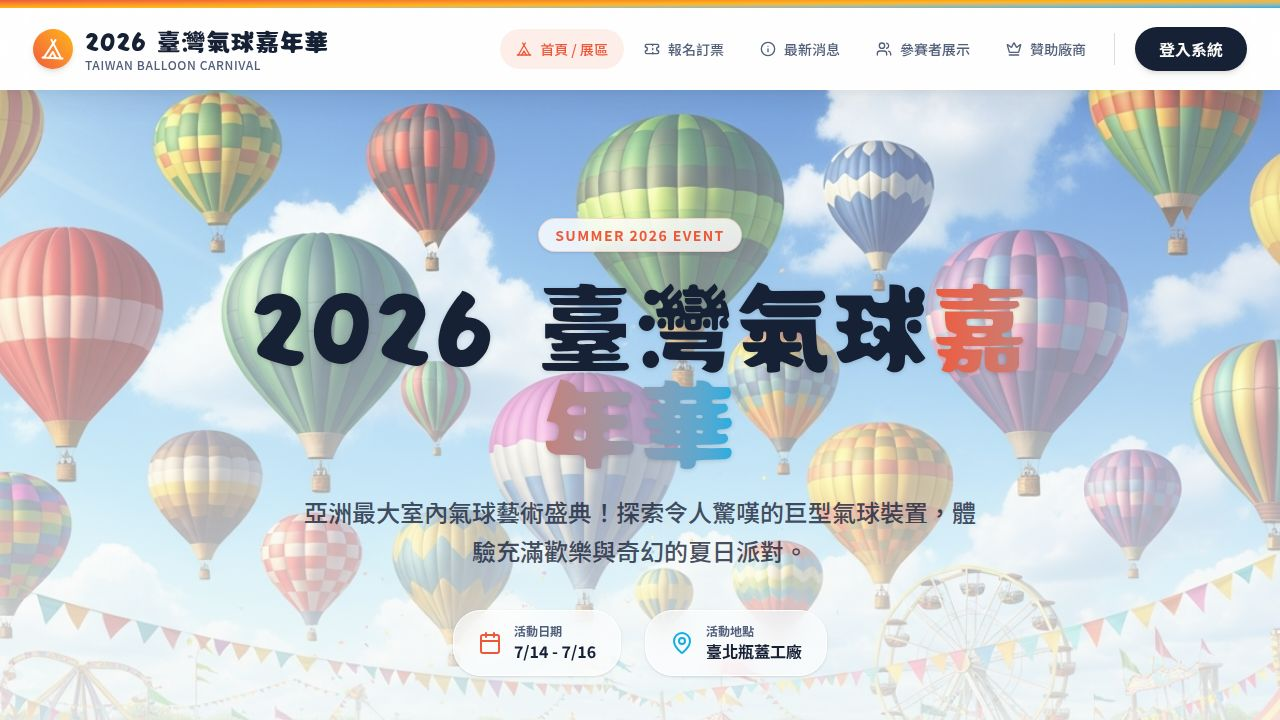
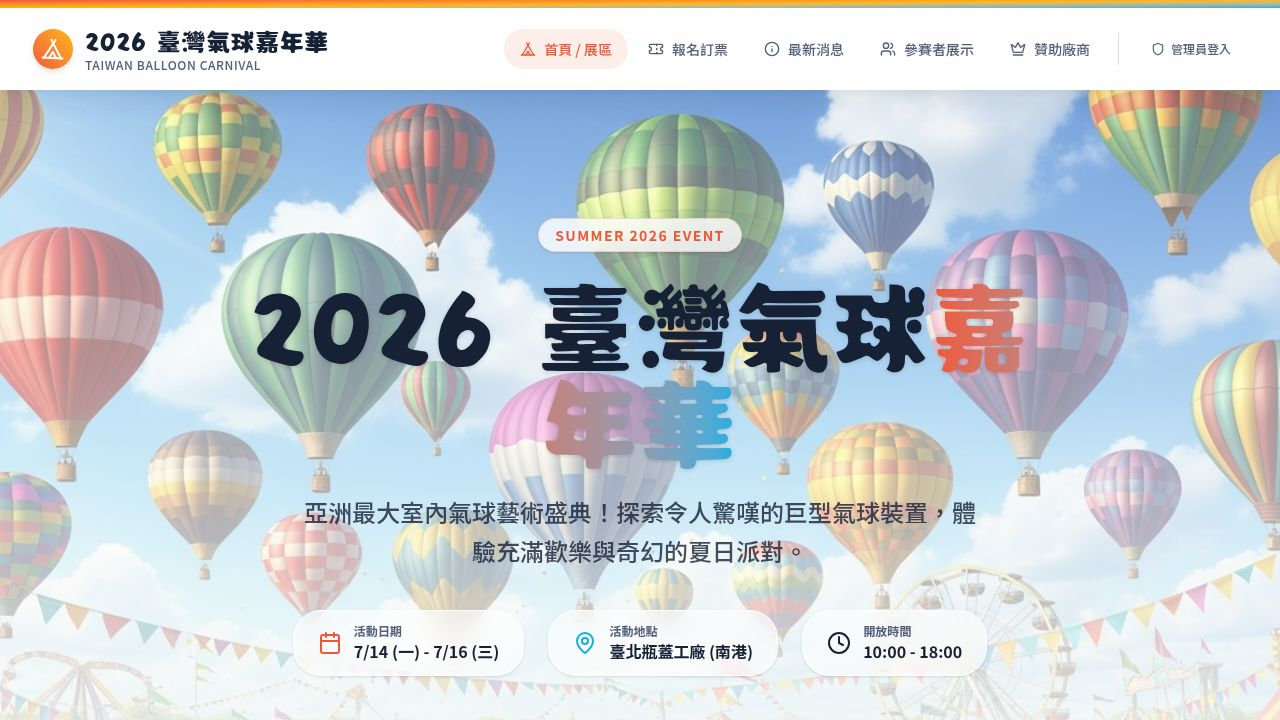
Fix issues preventing successful deployment and publishing
Resolves TypeScript type conflicts, missing environment type declarations, missing composite settings in TypeScript projects, date type mismatches in API routes, and Vite build failures by providing default environment variables.

Replit-Commit-Author: Agent
Replit-Commit-Session-Id: 9969f01a-d792-498c-b759-dbe3edce4d7d
Replit-Commit-Checkpoint-Type: full_checkpoint
Replit-Commit-Event-Id: 4b84aeec-7bba-4ffe-9a06-0fd495e285aa
Replit-Commit-Screenshot-Url: https://storage.googleapis.com/screenshot-production-us-central1/9ae51cab-ce5e-493a-9c99-0b37e6dc3948/9969f01a-d792-498c-b759-dbe3edce4d7d/fG5MdqL
Replit-Helium-Checkpoint-Created: true

diff --git a/lib/api-zod/src/index.ts b/lib/api-zod/src/index.ts
@@ -1,2 +1,24 @@
 export * from "./generated/api";
-export * from "./generated/types";
+export type {
+  AdminExportRegistrationsParams,
+  AdminListRegistrationsParams,
+  AuthorizationSessionHeaderParameter,
+  AuthUser,
+  AuthUserEnvelope,
+  BeginBrowserLoginParams,
+  Contestant,
+  CreateContestantBody,
+  CreateNewsBody,
+  DateAvailability,
+  ErrorEnvelope,
+  Exhibition,
+  HandleBrowserLoginCallbackParams,
+  HealthStatus,
+  LogoutSuccess,
+  MobileTokenExchangeRequest,
+  MobileTokenExchangeSuccess,
+  NewsArticle,
+  Registration,
+  Sponsor,
+  SponsorTier,
+} from "./generated/types";

diff --git a/artifacts/balloon-carnival/vite.config.ts b/artifacts/balloon-carnival/vite.config.ts
@@ -4,27 +4,14 @@ import tailwindcss from "@tailwindcss/vite";
 import path from "path";
 import runtimeErrorOverlay from "@replit/vite-plugin-runtime-error-modal";
 
-const rawPort = process.env.PORT;
-
-if (!rawPort) {
-  throw new Error(
-    "PORT environment variable is required but was not provided.",
-  );
-}
-
+const rawPort = process.env.PORT || "3000";
 const port = Number(rawPort);
 
 if (Number.isNaN(port) || port <= 0) {
   throw new Error(`Invalid PORT value: "${rawPort}"`);
 }
 
-const basePath = process.env.BASE_PATH;
-
-if (!basePath) {
-  throw new Error(
-    "BASE_PATH environment variable is required but was not provided.",
-  );
-}
+const basePath = process.env.BASE_PATH || "/";
 
 export default defineConfig({
   base: basePath,

diff --git a/artifacts/api-server/src/routes/admin.ts b/artifacts/api-server/src/routes/admin.ts
@@ -37,10 +37,11 @@ router.get("/admin/registrations", async (req, res): Promise<void> => {
   const query = AdminListRegistrationsQueryParams.safeParse(req.query);
   let rows;
   if (query.success && query.data.date) {
+    const dateStr = typeof query.data.date === "string" ? query.data.date : (query.data.date as Date).toISOString().split("T")[0];
     rows = await db
       .select()
       .from(registrationsTable)
-      .where(eq(registrationsTable.eventDate, query.data.date))
+      .where(eq(registrationsTable.eventDate, dateStr))
       .orderBy(desc(registrationsTable.createdAt));
   } else {
     rows = await db
@@ -57,10 +58,11 @@ router.get("/admin/registrations/export", async (req, res): Promise<void> => {
   const query = AdminExportRegistrationsQueryParams.safeParse(req.query);
   let rows;
   if (query.success && query.data.date) {
+    const dateStr = typeof query.data.date === "string" ? query.data.date : (query.data.date as Date).toISOString().split("T")[0];
     rows = await db
       .select()
       .from(registrationsTable)
-      .where(eq(registrationsTable.eventDate, query.data.date))
+      .where(eq(registrationsTable.eventDate, dateStr))
       .orderBy(desc(registrationsTable.createdAt));
   } else {
     rows = await db

diff --git a/artifacts/balloon-carnival/src/pages/NewsDetailPage.tsx b/artifacts/balloon-carnival/src/pages/NewsDetailPage.tsx
@@ -7,9 +7,7 @@ export default function NewsDetailPage() {
   const params = useParams();
   const id = parseInt(params.id || "0");
   
-  const { data: article, isLoading, error } = useGetNewsArticle(id, {
-    query: { enabled: !!id }
-  });
+  const { data: article, isLoading, error } = useGetNewsArticle(id);
 
   if (isLoading) {
     return (

diff --git a/artifacts/api-server/src/routes/registrations.ts b/artifacts/api-server/src/routes/registrations.ts
@@ -48,7 +48,8 @@ router.post("/registrations", async (req, res): Promise<void> => {
     return;
   }
 
-  const { parentName, phone, ticketCount, eventDate } = parsed.data;
+  const { parentName, phone, ticketCount, eventDate: eventDateRaw } = parsed.data;
+  const eventDate = typeof eventDateRaw === "string" ? eventDateRaw : (eventDateRaw as Date).toISOString().split("T")[0];
 
   if (!EVENT_DATES.includes(eventDate)) {
     res.status(400).json({ error: "Invalid event date" });

diff --git a/artifacts/balloon-carnival/src/pages/HomePage.tsx b/artifacts/balloon-carnival/src/pages/HomePage.tsx
@@ -316,7 +316,7 @@ export default function HomePage() {
                 <Link key={article.id} href={`/news/${article.id}`} className="glass-card rounded-2xl p-6 hover-lift group block">
                   <div className="flex items-center gap-2 text-xs text-muted-foreground mb-3">
                     <Calendar size={12} />
-                    {article.publishedAt ? formatDate(article.publishedAt) : '最新'}
+                    {article.createdAt ? formatDate(String(article.createdAt)) : '最新'}
                   </div>
                   <h3 className="text-lg font-bold mb-3 group-hover:text-primary transition-colors line-clamp-2">
                     {article.title}

diff --git a/lib/replit-auth-web/src/env.d.ts b/lib/replit-auth-web/src/env.d.ts
@@ -1,0 +1,2 @@
+interface ImportMetaEnv { readonly BASE_URL: string; [key: string]: string; }
+interface ImportMeta { readonly env: ImportMetaEnv; }